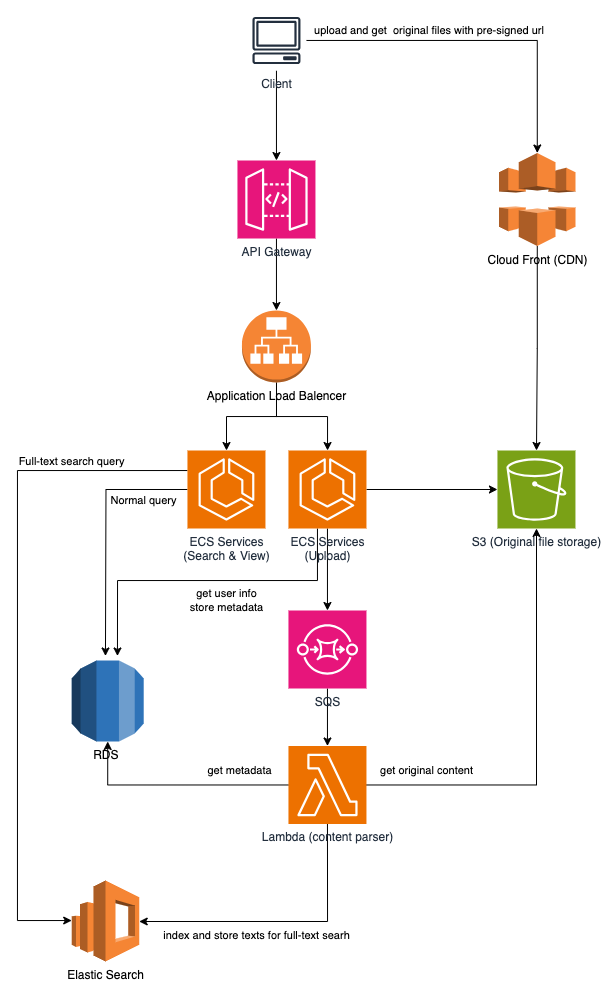
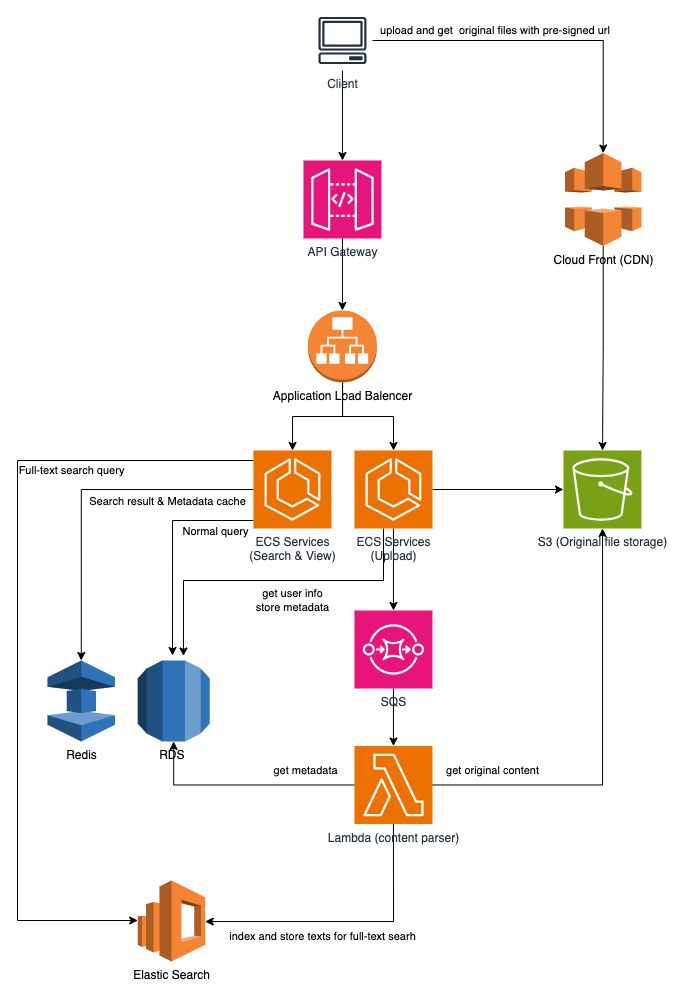
doc: add search and view cache to system design

diff --git a/README.md b/README.md
@@ -10,6 +10,29 @@
 
 ![](./diagram.png)
 
+**Backend Architecture with AWS**
+* Entry point for client
+    * API Gateway
+
+* Scalable Microservices
+    * Load Balencer
+    * ECS (or EKS)
+    * SQS
+    * Lambda
+
+* Main Database
+    * RDS (or Aurora)
+
+* Full-text Search Engine
+    * Elastic Search
+
+* File Storage
+    * S3 private bucket
+
+* Cache
+    * Cloud Front
+    * Elastic Cache
+
 **User upload flow**
 1. The client sends GET /pre-signed-url request and uploads original files.
 2. The client sends POST /texts or POST /books request.
@@ -19,8 +42,14 @@
 
 **User view flow**
 1. The client sends GET /texts, GET /books  or GET /texts/<:id>, GET /books/<:id> request.
-2. View & Search service get metadata from DB and generate pre-signed url to accsee files (cached by CDN).
+2. View & Search service check if metadata cache exist 
+    * exist: Get metadata from cache
+    * not exist: Get metadata from DB then store to cache
+3. Generate pre-signed url to accsee files (cached by CDN) and return result to client
 
 **User search flow**
 1. The client sends GET /search?q=word request.
-2. View & Search service search contents from Elastic Search and get metadata from DB.
+2. View & Search service check if search cache exist
+    * exist: get search result from cache
+    * not exist: search contents from Elastic Search and get metadata from DB then store result to cache.
+3. Return search result to client.
